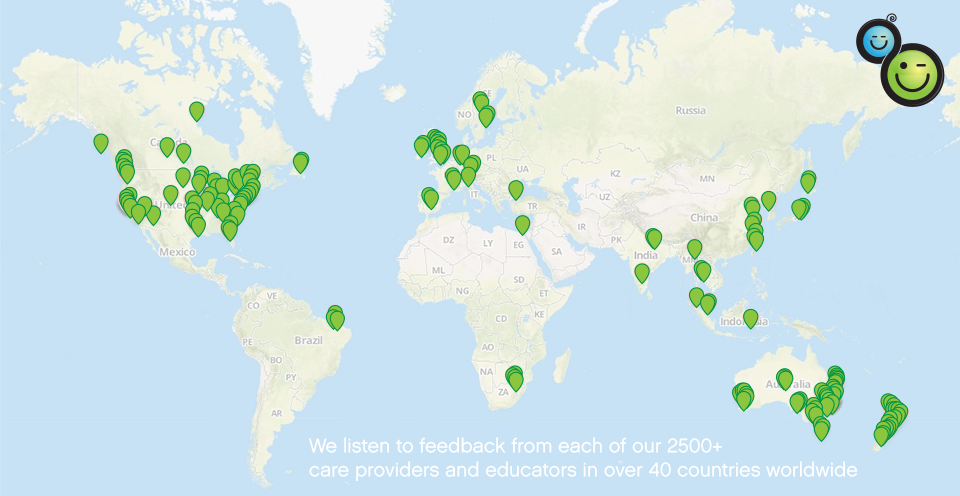
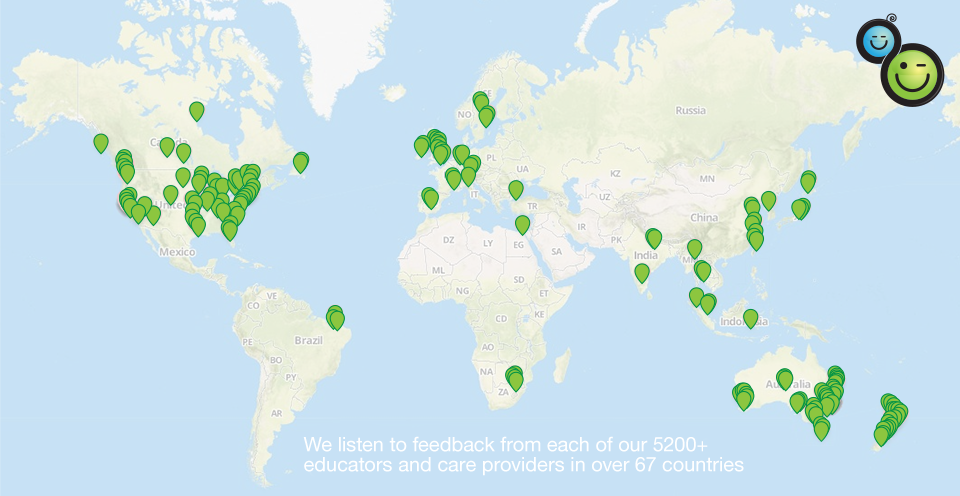
about txt

Changed region(s): [[0.3125, 0.877, 0.9062, 0.9677]]

diff --git a/about.html b/about.html
@@ -11,10 +11,10 @@ title: Learning journeys made easy, Early Childhood software, Kinderloop
                 <div class="row">
                     <div class="span6 block">
                         <p>
-                            <b>As busy parents,</b> we drop our kids off at preschool in the morning, and spend the day wondering what they're doing. We try to learn as much as we can during drop off and pickup, but things are always so hectic that it's hard to really feel involved.
+                            <b>As busy parents,</b> we drop our kids off at preschool and daycare in the morning, and spend the day wondering what they're doing. We try to learn as much as we can during drop off and pickup, but things are always so hectic that it's hard to really feel involved in their learning and development, our extended family are also a little in the dark.
                         </p>
                         <p>
-                            <b>As time poor educators,</b> we have responsibilities of documenting, planning, recording, assessing and evaluating. With one simple and very easy to use program, Kinderloop allows us to achieve all these things, through our own private loop that links our families and educators together. It helps create a holistic approach to managing our requirements under the National Regulations and NQF, with ease.</b> 
+                            <b>As time poor educators,</b> we have responsibilities of documenting, planning, recording, assessing and evaluating. With one simple and very easy to use program, Kinderloop allows us to achieve all these things, through our own private loop that links our families and educators together. It helps create a holistic approach to managing our requirements under the National Regulations, with ease.</b> 
                         </p>
                     </div>
                 </div>
@@ -22,7 +22,7 @@ title: Learning journeys made easy, Early Childhood software, Kinderloop
              <div class="span6">
                 <div class="row">
                     <div class="span6 block">
-                        <p><b>With the help of educators in over 40 countries,</b> we are helping create a continuum of care around the kids, to reconnect the busy extended family and to help every educator save some of their precious time & resources. Kinderloop was founded by the two Dan's; Dan Day and Dan Walker, busy parents of young kids who crave more information from their preschool. We've had experience in creating educational software in some of the worlds largest educational authorities and are excited to help care providers start having fun with technology.</p>
+                        <p><b>With the help of educators in over 67 countries,</b> we are creating a continuum of learning and care around the kids, reconnecting the busy family and to help every educator save their precious time & resources. Kinderloop was founded by the two Dan's; parents of young kids who wanted to feel a little more involved with their childrens daily development. We've had experience in creating educational software in some of the worlds largest educational authorities and are excited to help educators have fun with technology.</p>
                         <p><b>Our mission is to make it easy and fun for early years educators and care providers to capture those special moments of a child's development and have an informed and engaged community of family, all centred around the kids.</b></p>
                     </div>
                 </div>
@@ -46,13 +46,23 @@ title: Learning journeys made easy, Early Childhood software, Kinderloop
                 </p>
             </div>
         </div>
-        <div class="span4" style="display:none;">
+        <div class="span4">
             <div class="person">
-                <div class="profile"><img alt="Dd" src="assets/img/profile-ag.png"></div>
-                <span class="name text-green">Anne Gordon</span>
-                <a class="contact" href="mailto:anne@kinderloop.com">anne@kinderloop.com</a>
+                <div class="profile"><img alt="jb" src="assets/img/profile-jb.png"></div>
+                <span class="name text-green">Jenny Brown</span>
+                <a class="contact" href="mailto:support@kinderloop.com">support@kinderloop.com</a>
                 <p class="description">
-                    Anne is a mother of two, and an Attorney by trade. She is in charge of all our new Kinderloopers.
+                    Jenny is a mother of two, and an EY Educator. She is in charge of all our new Kinderloopers.
+                </p>
+            </div>
+        </div>
+        <div class="span4">
+            <div class="person">
+                <div class="profile"><img alt="Mb" src="assets/img/profile-mb.png"></div>
+                <span class="name text-green">Magnus Butlin</span>
+                <a class="contact" href="mailto:magnus.butlin@kinderloop.com">magnus.butlin@kinderloop.com</a>
+                <p class="description">
+                    Magnus is a devoted father, and an keeps our super duper technology humming along nicely.
                 </p>
             </div>
         </div>
@@ -62,7 +72,7 @@ title: Learning journeys made easy, Early Childhood software, Kinderloop
                 <span class="name text-green">Dan Walker</span>
                 <a class="contact" href="mailto:support@kinderloop.com">support@kinderloop.com</a>
                 <div class="description">
-                    Dan Walker is our resident geek and he's responsible for our technology platform.
+                    Dan Walker is a self confessed geek and he created our technology platform.
                 </div>
             </div>
         </div>
@@ -75,7 +85,7 @@ title: Learning journeys made easy, Early Childhood software, Kinderloop
                 <p class="adr">
                     <span class="street-address">145 National Innovation Centre</span><br>
                     <span class="locality">Australian Technology Park</span><br>
-                    <span class="region">Eveleigh NSW </span>
+                    <span class="region">Eveleigh, Sydney NSW </span>
                     <span class="postal-code">2015</span><br>
                     <span class="country">Australia</span>
                 </p>
